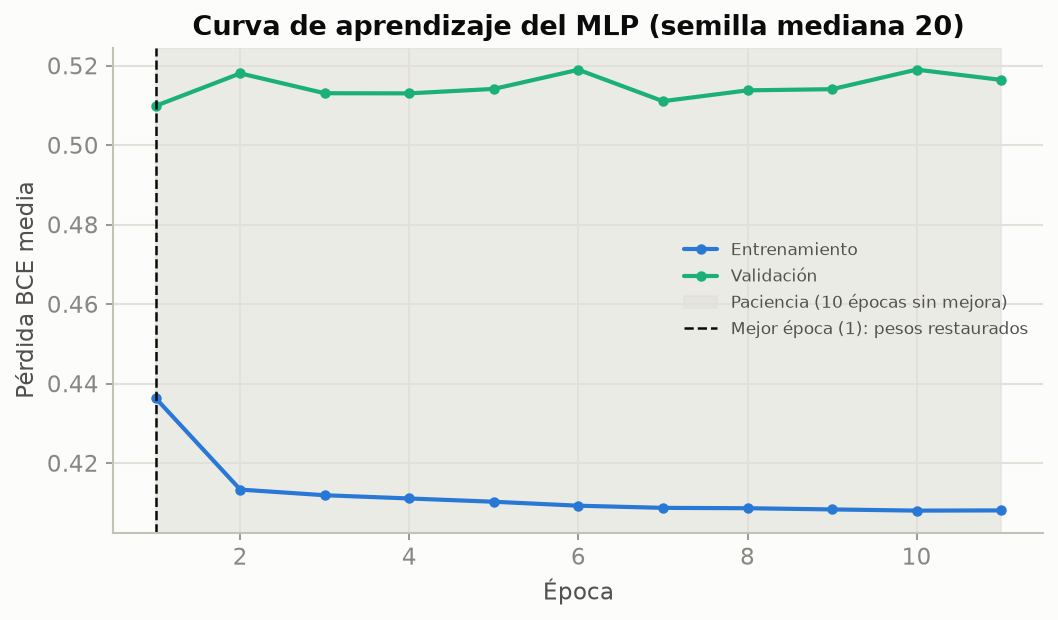
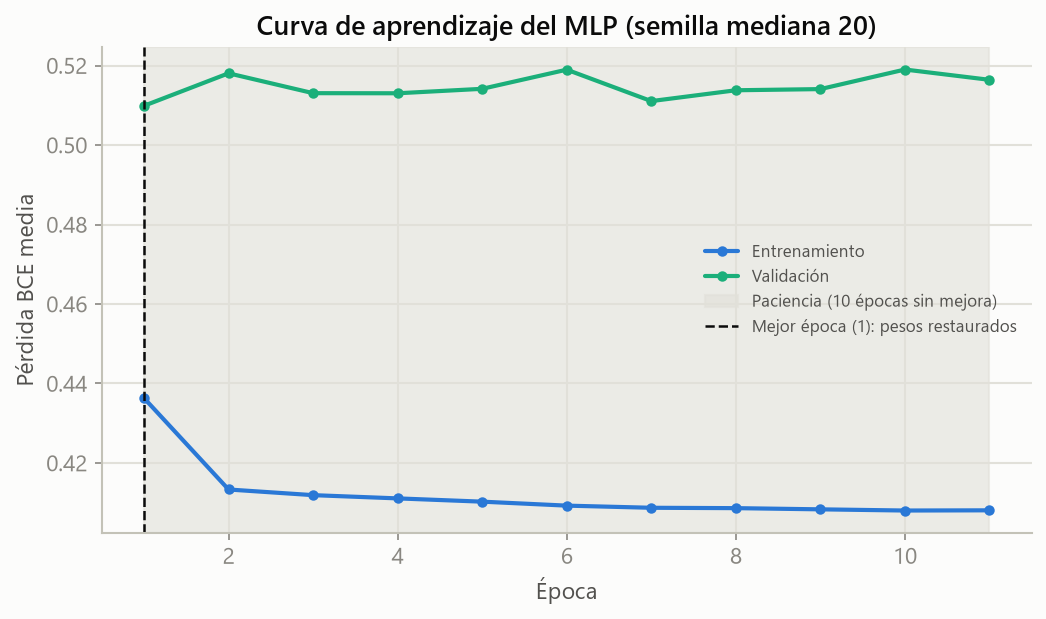
E11: notebook 00 con la demo de PD (demo: pd) y figuras pd-* regeneradas en Windows
Las figuras de B7 se generaron en Linux sin las fuentes de la paleta (DejaVu Sans); regeneradas con
python -m figs_pd.generar en Windows, mismos datos (pd-calibracion.json sin cambios). Memoria tras PR #15 y #16.

diff --git a/notebooks/00_sustentacion.py b/notebooks/00_sustentacion.py
@@ -23,7 +23,7 @@
 
 # %% tags=["parameters"]
 CONFIG = "configs/sustentacion.yaml"
-SET = {}            # p. ej. {"demo": "pd"} para mostrar otra demo
+SET = {}            # p. ej. {"demo": "eda"} para mostrar otra demo (por defecto, la de PD)
 CAMBIO = {}         # lo que pide el profesor, con las claves de --set, p. ej. {"mlp.dropout": 0.5}
 PREDICCION = ""     # se escribe ANTES de correr la celda 2: qué esperamos que pase y por qué
 
@@ -60,8 +60,9 @@ else:
 
 # %% [markdown]
 # ### Predicciones de referencia
-# Verificadas corriendo el cambio (24-oct-2026, demo `eda`, Parte A). Las de B, C y D las agrega el `tutor-sustentacion`
-# (tarea T5.4) cuando sus demos estén conectadas; una predicción sin correr se marca "no verificada".
+# Verificadas corriendo el cambio (24-oct-2026) con la demo `eda` de la Parte A: se corren con `SET = {"demo": "eda"}`,
+# porque la demo por defecto es la de PD (B6). Las de B, C y D las agrega el `tutor-sustentacion` (tarea T5.4); una
+# predicción sin correr se marca "no verificada".
 #
 # | Cambio (`CAMBIO`) | Predicción | Por qué | ¿Se cumplió? |
 # |---|---|---|---|

diff --git a/docs/MEMORIA.md b/docs/MEMORIA.md
@@ -12,8 +12,8 @@
 | | |
 |---|---|
 | Última actualización | 2026-10-26 |
-| Fase | En `main`: Parte A (PR #1), reparto B+C (PR #2), Parte E parcial con `montos.parquet` y contratos v0.10 (PR #3), diccionario y etiquetas en español (PR #4–#5), Parte B: B1–B3 (PR #6) y B4–B5 MLP de PD con 30 semillas (PR #10), Parte D: D1–D8 (PR #7), Parte C: C1–C2 (PR #8) y C3 scorecard de la logística + C5 los dos modelos de PD en la app (PR #12, 26-oct 2:46 p. m.), Parte E: E5 E[L] por banda de puntaje, notebook 05 y blog 09 (PR #9), Parte D: D9, D10, D4b y D7b (PR #14, José). Spec v0.19 |
-| Próxima tarea | Todos: `git pull origin main` en su rama. B (Andrés): PR #16 de B6 (Spec v0.20; falta medir la demo en otra máquina: Daniel o Juan José) y B7 (Spec v0.21; figuras `pd-*` y escena 7 del video); luego B8–B10; marcar ✅ B1 en `B-pd.md`; arreglar las 2 pruebas de permisos de `test_hpo.py` que fallan en Windows. C (Juan José): C4 y C6; PR de Spec con C §3.1 [DECIDIDO] y `export.yaml` y `src/scorecard/puntos.py` en el núcleo §4. D: fila V-09. Camila: E1–E4 con los dos JSON reales (`app/public/model/pd_model_{logistica,mlp}.json`) y selector de modelo. Daniel: fusionar PR #15 (blogs 00, 09, 10 y 13 y E[L] con la LGD de D4b); video; notebook 00 (demo pd cuando exista B6); clon limpio |
+| Fase | En `main`: Parte A (PR #1), reparto B+C (PR #2), Parte E parcial con `montos.parquet` y contratos v0.10 (PR #3), diccionario y etiquetas en español (PR #4–#5), Parte B: B1–B3 (PR #6) y B4–B5 MLP de PD con 30 semillas (PR #10), Parte D: D1–D8 (PR #7), Parte C: C1–C2 (PR #8) y C3 scorecard de la logística + C5 los dos modelos de PD en la app (PR #12, 26-oct 2:46 p. m.), Parte E: E5 E[L] por banda de puntaje, notebook 05 y blog 09 (PR #9), Parte D: D9, D10, D4b y D7b (PR #14, José), Parte E: E[L] con la LGD de D4b (PR #15), Parte B: B6 demo y B7 figuras (PR #16). Spec v0.21 |
+| Próxima tarea | Todos: `git pull origin main` en su rama. B (Andrés): B6 🟨 (falta medir la demo en otra máquina: Daniel o Juan José); luego B8–B10; marcar ✅ B1 en `B-pd.md`; arreglar las 2 pruebas de permisos de `test_hpo.py` que fallan en Windows. C (Juan José): C4 y C6; PR de Spec con C §3.1 [DECIDIDO] y `export.yaml` y `src/scorecard/puntos.py` en el núcleo §4. D: fila V-09. Camila: E1–E4 con los dos JSON reales (`app/public/model/pd_model_{logistica,mlp}.json`) y selector de modelo. Daniel: confirmar H-22 y H-23 (blog 12); README con torch CPU en Linux (PR aparte); video; clon limpio |
 | Entrega | **mar 27-oct-2026, 23:59** (meta interna 6 p. m.; días restantes: 1) |
 | Sustentación | Posterior al 27-oct, por confirmar |
 
@@ -78,13 +78,15 @@ mar 27 6 p. m. entrega.
 1. Reparto de tareas dentro de cada pareja (D y E; B+C ya repartió).
 5. Avisar a D: `iterar_minilotes(n, batch, rng, device)` recibe `device`; `evidencia` (§5.4, v0.14) va en los JSON de la LGD.
 6. B (tras PR #10): refactor `TODO(refactor-post-B5)` (incluye rechazar `datos.muestra` en `pd-hpo`); blog 06: `mejor_epoca` = 1 en la mediana como limitación.
-7. B6: medir la demo en otra máquina y marcar ✅; Daniel decide `demo: pd`; README: instalar torch CPU en Linux (PR aparte).
+7. B6: medir la demo en otra máquina y marcar ✅; `demo: pd` aceptada (Daniel, 26-oct); README: instalar torch CPU en Linux (PR aparte).
 8. `run.py figures` cambia bytes entre máquinas (sin las fuentes de `paleta.FUENTES` usa DejaVu Sans): avisar a A, D y E (E8).
 
 ## 🎯 Cacería (resumen)
 Confirmados: 21 de 21 (Daniel, 26-oct): Código 13, Matemáticas 4 (H-08, H-10, H-14, H-15), Datos del mundo real 2 (H-02, H-13), Conceptos 2 (H-16, H-21), Bibliografía 0; por parte A 2, B 11, C 3, D 1, E 4 · Afirmaciones por verificar: V-01…V-12 · Meta del enunciado (≥ 5 en ≥ 3 categorías) y nuestra (≥ 1 por parte): **cumplidas**. Blog 12 al día. Candidatos de B7 sin confirmar (de `dev/andres`): H-22 Conceptos (diagonal al revés), H-23 Datos (redondeo).
 
 ## 📓 Bitácora
+- **2026-10-26** — PR #15 y #16 fusionados (B6, B7; Spec v0.21). Daniel acepta `demo: pd`: notebook 00 con la demo de PD (12,7 s);
+  figuras `pd-*` regeneradas en Windows con las fuentes de la paleta (en Linux salían con DejaVu).
 - **2026-10-26** — B6 y B7 (Andrés, PR #16; Spec v0.20–v0.21): demo de PD 13,8–16,0 s en CPU sin red; 7 figuras `pd-*` + JSON de la escena 7 del video; 1 426 pruebas; revisores OK; H-22, H-23; falta medir la demo en otra máquina.
 - **2026-10-26** — PR #14 fusionado (Daniel; D4b, LGD semilla 22). E[L] rehecha en `dev/daniel`: 197,03 M USD (antes 196,71), resueltos
   1,059 (antes 1,057; PD 0,926 · LGD 0,971 · EAD 1,179); MLP de PD 208,20 / 1,123. Blogs 00, 09, 10, 13; cazador APROBADO.
@@ -138,13 +140,11 @@ Confirmados: 21 de 21 (Daniel, 26-oct): Código 13, Matemáticas 4 (H-08, H-10, 
   Juan José C). Los contratos de la E[L] de `dev/daniel` pasan a ser la v0.10.
 - **2026-10-24** — Blog 00 (resumen) y notebook 00 de la sustentación (demos de `run.py` en carpetas temporales; la celda de
   modificación exige escribir la predicción antes). `configs/sustentacion.yaml`: cada parte registra ahí su demo.
-- **2026-10-24** — E6: proyecto Remotion en `video/` con las 9 escenas del guion (clips como marcadores). E7 parcial: blog 11–13.
-  V-05 (licencia de Remotion) verificada.
+- **2026-10-24** — E6: proyecto Remotion en `video/` con las 9 escenas del guion (clips como marcadores). E7 parcial: blog 11–13; V-05.
 - **2026-10-24** — E5: `src/el/` + `run.py el` con pruebas. Spec v0.10: `montos.parquet` (solo LGD y E[L]), columnas `pred_<modelo>`
   y `lgd/pred_pd_test.parquet`. Al castigo seguía pendiente en promedio el 84 % del monto (castigados de test, E5 del 26-oct).
 - **2026-10-24** — PR #1 (Parte A, 17 commits) fusionado en `main`; CI `pruebas` en verde en Linux; ruleset activo.
   B, C y D ya pueden usar `loans_pd.parquet` y `preprocesador_pd.json` desde `main`.
-- **2026-10-24** — B1 (Andrés): `src/common/metricas.py` + 63 pruebas contra sklearn/scipy; 3 revisores APROBADO; H-03 y
-  H-04. Pendiente: TODO(cita) de Murphy (1973).
+- **2026-10-24** — B1 (Andrés): `src/common/metricas.py` + 63 pruebas; 3 revisores APROBADO; H-03 y H-04; TODO(cita) Murphy (1973).
 - **2026-10-23** — Parte A: crudo de Kaggle, objetivo, 15 variables, partición ≤ 2012 / 2013 / 2014 y `loans_pd.parquet` (237 695),
   aprobados por Daniel (Spec v0.7–v0.8, H-01, H-02); `.venv` 3.12, CI y blog portado del Trabajo 1 con 01–03.
